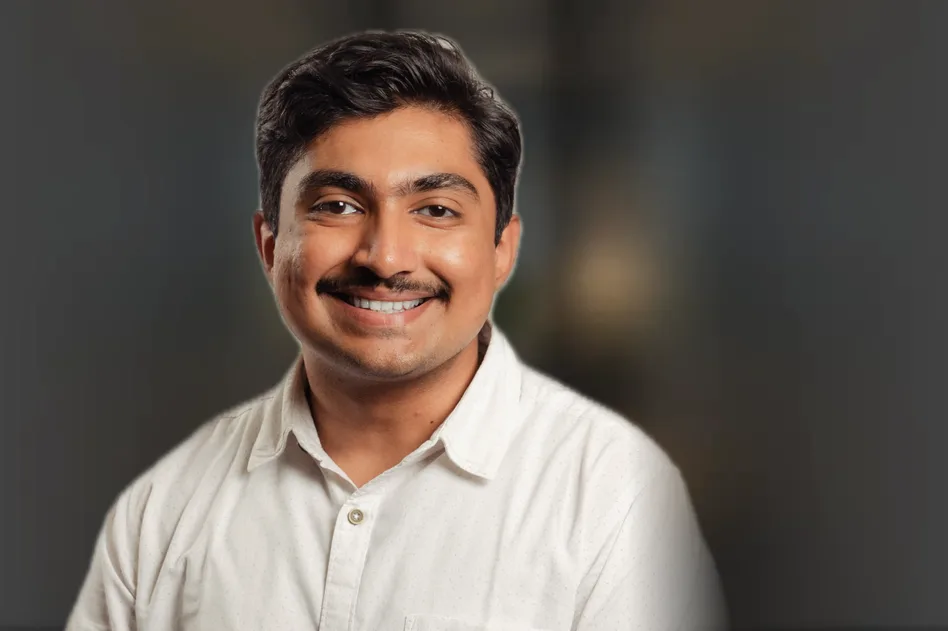
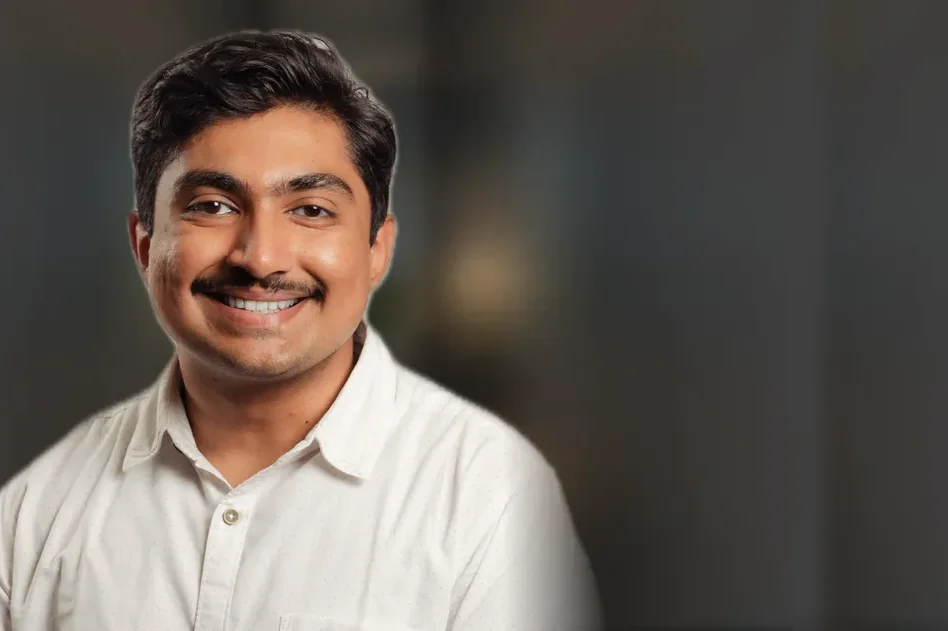
Profile cards: alumni, faculty, mentors, investors and team one size (352px); Suhaas Sastry moved clear of his card's copy

diff --git a/src/app/card-standard.css b/src/app/card-standard.css
@@ -62,3 +62,14 @@ html body .cs-media-tag {
    ssx-ui Link. Tab switches are segmented controls: 4px corners (radius-md), as the people tabs. */
 html body .bn-apply .bn-apply-btn { font-size: var(--font-size-base) !important; }
 html body .cr-main .sj-ps-tab, html body .cr-main .sj-ps-tab[aria-current='true'] { border-radius: var(--radius-md) !important; }
+
+/* ── The profile cards, one size (2026-11-19, the user's ask: "standardise everything, all the cards a
+   consistent size"). The alumni cards (368px on the web, 25rem on a tablet) and the instructor, mentor,
+   investor and team cards (320px, 21rem) are one 480 x 320 design scaled to their slot; now one slot for
+   all: 22rem (352px) from the tablet up, under the same cap the alumni had, so two rows still fit a short
+   window. Phones keep theirs (the alumni three rows at a fit, the rest 76vw). ── */
+@media (width >= 672px) {
+  html body :is(.alumni-row, .fc-grid.fc-grid) {
+    grid-auto-columns: min(calc((100svh - 16rem) / 2 * 1.5), 22rem) !important;
+  }
+}

diff --git a/public/media/CREDITS.md b/public/media/CREDITS.md
@@ -33,7 +33,7 @@ From Wikimedia Commons, resized to 1920px WebP in `public/media/singapore`.
 
 Interim assets for the main page; each is to be swapped for the team's own once it arrives.
 
-- `public/alumni/{sagnik-banerjee,pranav-bagla,suhaas-sastry}.webp`: the team's headshots (Figma, SSB 2026 > Assest), cut-outs set on `public/internship/plate.webp`. Ours.
+- `public/alumni/{sagnik-banerjee,pranav-bagla,suhaas-sastry}.webp`: the team's headshots (Figma, SSB 2026 > Assest), cut-outs set on `public/internship/plate.webp`. Ours. (2026-11-19) Suhaas moved 125px left, the plate's blur carried into the right edge, so he sits where the others do, clear of the card's copy.
 - `shantanu-card.webp`, `shantanu-avatar.jpg`, `kiran-card.webp`, `kiran-avatar.jpg`: the team's photos of Shantanu Deshpande and Kiran Shah on SSB's stage (Figma, SSB 2026 > LP 2026-27 Assets). Ours. Shantanu's card plays SSB's own YouTube masterclass (ki_0jkW-2oc).
 - `public/sessions/varun-mohan.webp`: Varun Mohan's X avatar (@_mohansolo). `public/sessions/arvind-neelakantan.webp`: UCSB Center for Responsible Machine Learning's lecture page photo. Neither is ours: **replace** with the team's photos from their SSB sessions.
 - `public/deck/products/*.webp` (the AI products' cards): generated phone mock-ups of each kind of app (Aside image generation, 2026-11-16). Ours to use; stand-ins for students' own builds.
